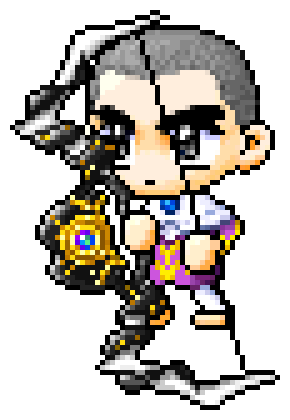
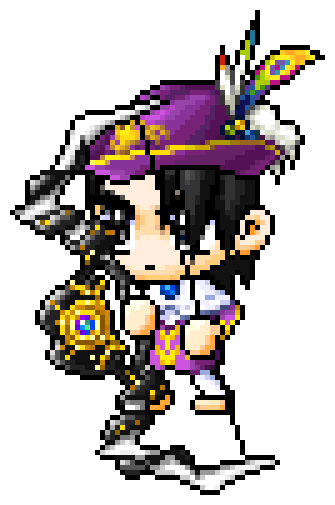
fix: 직업 프리셋 개선 — 헤어(Black Rebel)·타임리스 모자 착용·활/석궁 직업명 정정(보우마스터/신궁)

diff --git a/web/app/recruit-card/page.tsx b/web/app/recruit-card/page.tsx
@@ -267,8 +267,8 @@ const CHAR_PRESETS: { key: string; label: string }[] = [
   { key: "hero", label: "히어로" },
   { key: "darkknight", label: "다크나이트" },
   { key: "paladin", label: "팔라딘" },
-  { key: "bowmaster", label: "신궁" },
-  { key: "marksman", label: "표사" },
+  { key: "bowmaster", label: "보우마스터" },
+  { key: "marksman", label: "신궁" },
   { key: "nightlord", label: "나이트로드" },
   { key: "shadower", label: "섀도어" },
   { key: "archmage", label: "아크메이지" },

diff --git a/scripts/generate_char_presets.py b/scripts/generate_char_presets.py
@@ -20,10 +20,12 @@ OUT = Path(__file__).resolve().parent.parent / "web" / "public" / "recruit-card"
 
 SKIN = 2000          # 기본 피부 (몸 2000 + 머리 12000)
 FACE = 20000         # 기본 얼굴
-HAIR = 30030         # 검은 단정머리
+HAIR = 30020         # 블랙 레벨컷 (삐죽머리)
 
 ZAKUM_HELM = 1002357
-GUILTIAN = 1002154   # 다크 길티언 (법사 모자)
+GUILTIAN = 1002154   # 다크 길티언 (배메용)
+# 타임리스 모자 (직업군별)
+HAT = {"archer": 1002778, "thief": 1002779, "mage": 1002777, "pirate": 1002780}
 
 # 타임리스 한벌옷
 OVERALL = {"warrior": 1052155, "archer": 1052157, "thief": 1052158, "mage": 1052156, "pirate": 1052159}
@@ -33,14 +35,14 @@ PRESETS: dict[str, tuple[str, list[int], str]] = {
     "hero":        ("히어로",       [ZAKUM_HELM, OVERALL["warrior"], 1402046], "stand2"),  # 타임리스 니플하임(두손검)
     "darkknight":  ("다크나이트",   [ZAKUM_HELM, OVERALL["warrior"], 1432047], "stand2"),  # 알슈피스(창)
     "paladin":     ("팔라딘",       [ZAKUM_HELM, OVERALL["warrior"], 1322060], "stand1"),  # 알라르간도(둔기)
-    "bowmaster":   ("신궁",         [OVERALL["archer"], 1452057], "alert"),               # 엔가우(활)
-    "marksman":    ("표사",         [OVERALL["archer"], 1462050], "alert"),               # 블랙뷰티(석궁)
-    "nightlord":   ("나이트로드",   [OVERALL["thief"], 1472068], "alert"),                # 람피온(클로)
-    "shadower":    ("섀도어",       [OVERALL["thief"], 1332073], "stand1"),                # 페스카즈(단검)
-    "archmage":    ("아크메이지",   [OVERALL["mage"], 1372044], "stand1"),                 # 엔릴 티어(완드)
-    "bishop":      ("비숍",         [OVERALL["mage"], 1382057], "alert"),                 # 에아스 핸드(스태프)
-    "viper":       ("바이퍼",       [OVERALL["pirate"], 1482013], "alert"),               # 용아주조(너클)
-    "captain":     ("캡틴",         [OVERALL["pirate"], 1492013], "alert"),               # 드래곤 세인트(건)
+    "bowmaster":   ("보우마스터",   [HAT["archer"], OVERALL["archer"], 1452057], "alert"),               # 엔가우(활)
+    "marksman":    ("신궁",         [HAT["archer"], OVERALL["archer"], 1462050], "alert"),               # 블랙뷰티(석궁)
+    "nightlord":   ("나이트로드",   [HAT["thief"], OVERALL["thief"], 1472068], "alert"),                # 람피온(클로)
+    "shadower":    ("섀도어",       [HAT["thief"], OVERALL["thief"], 1332073], "stand1"),                # 페스카즈(단검)
+    "archmage":    ("아크메이지",   [HAT["mage"], OVERALL["mage"], 1372044], "stand1"),                 # 엔릴 티어(완드)
+    "bishop":      ("비숍",         [HAT["mage"], OVERALL["mage"], 1382057], "alert"),                 # 에아스 핸드(스태프)
+    "viper":       ("바이퍼",       [HAT["pirate"], OVERALL["pirate"], 1482013], "alert"),               # 용아주조(너클)
+    "captain":     ("캡틴",         [HAT["pirate"], OVERALL["pirate"], 1492013], "alert"),               # 드래곤 세인트(건)
     "battlemage":  ("배틀메이지",   [GUILTIAN, OVERALL["mage"], 1382057], "alert"),       # v92 대체 코디
 }
 
